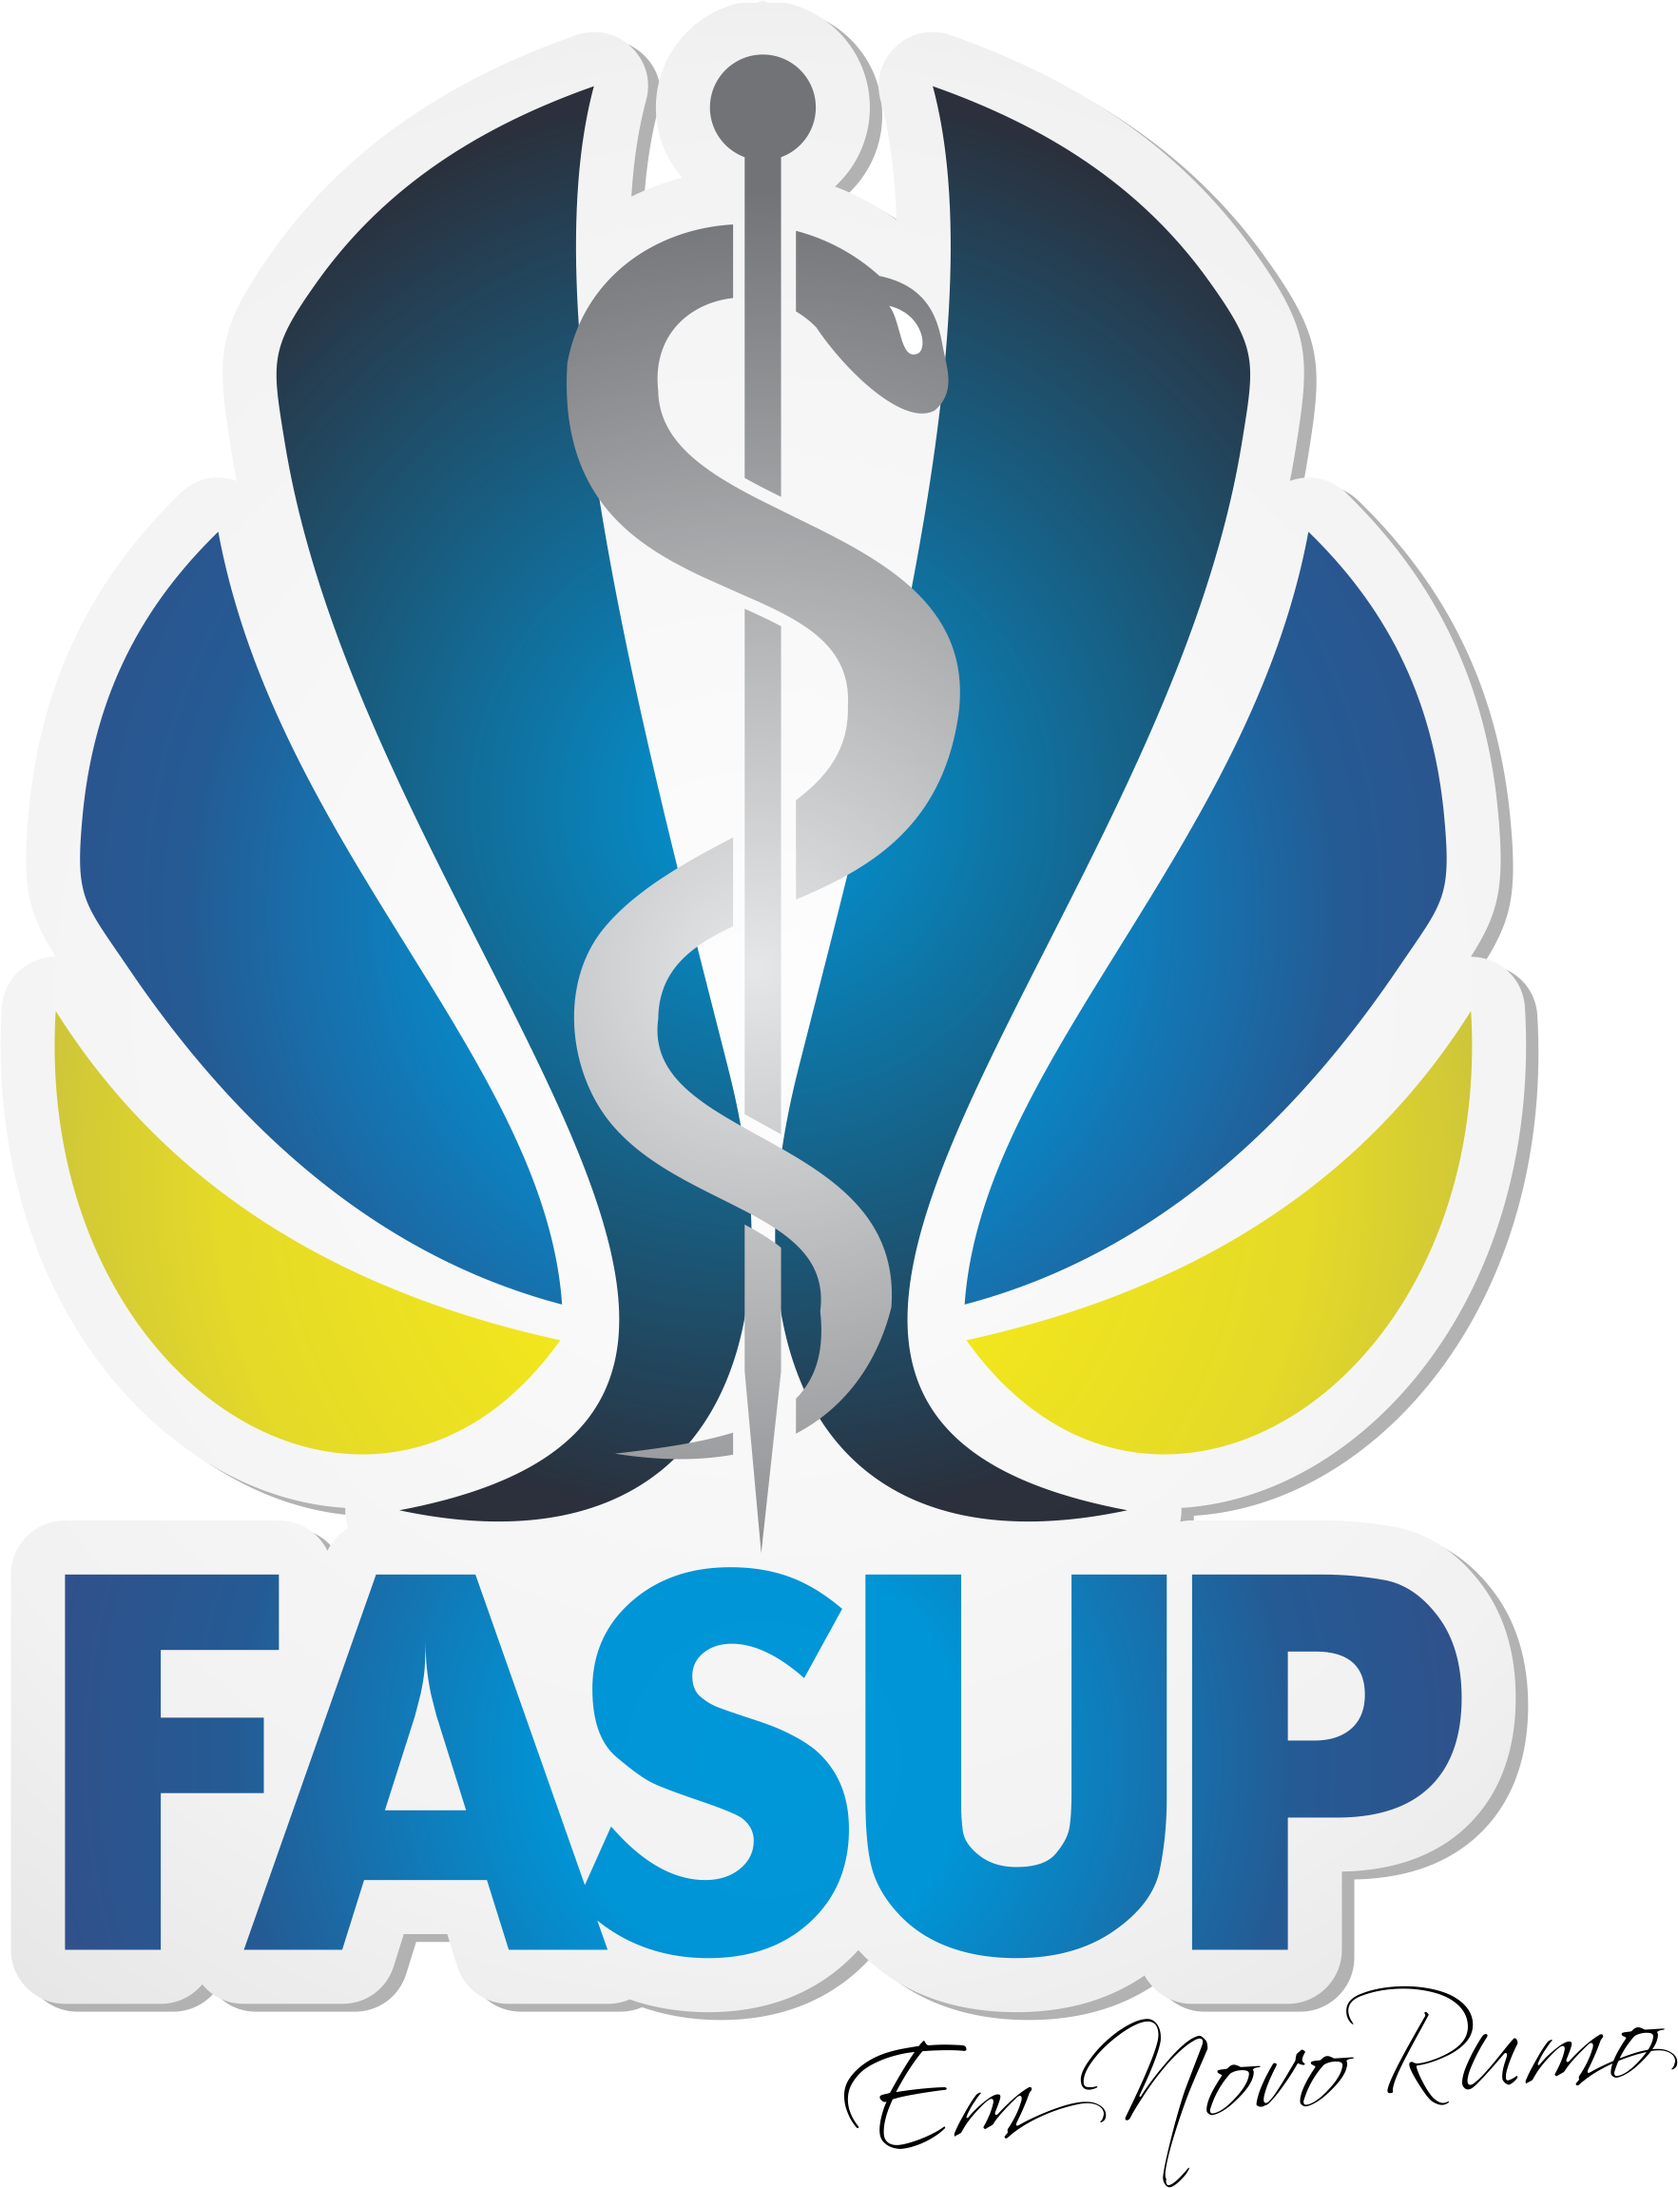
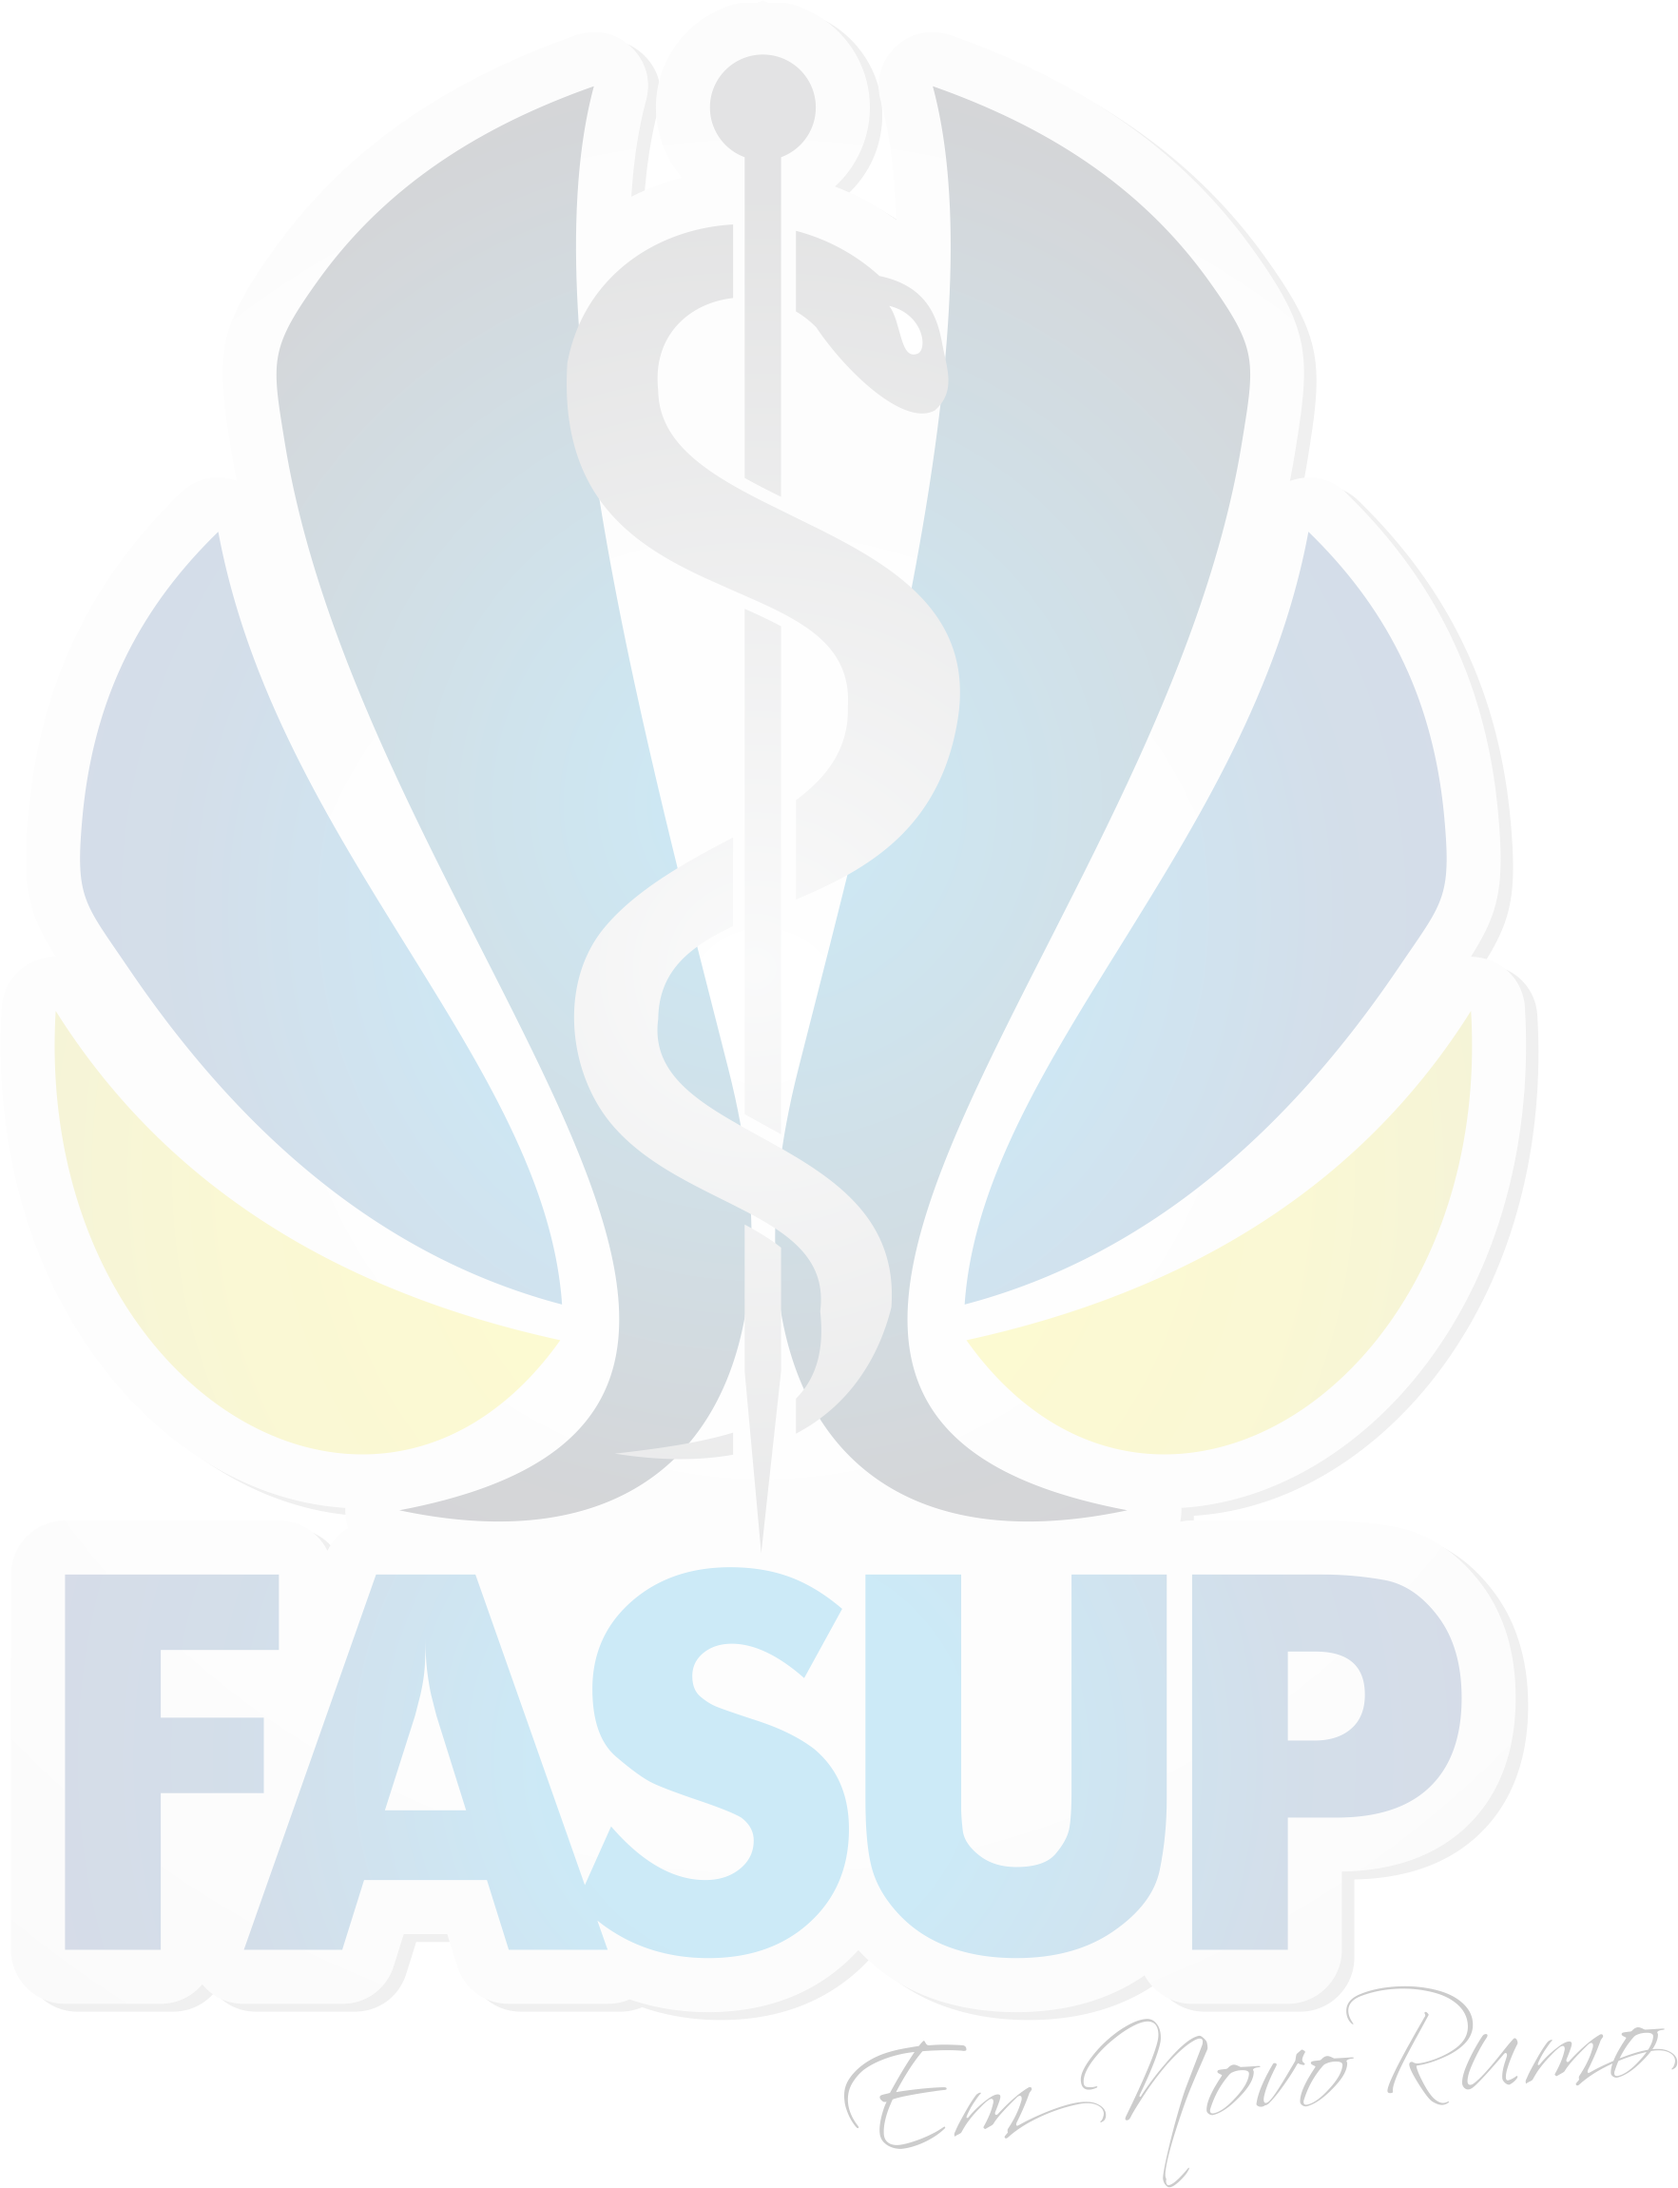
Atualizações

diff --git a/resources/views/reports/declaracaoVinculo.blade.php b/resources/views/reports/declaracaoVinculo.blade.php
@@ -63,15 +63,17 @@
         #background {
             width: 100%;
             height: 100%;
+            background-image: url("{{ asset('/img/marca_dagua_fasupe.png') }}");
+            background-repeat: no-repeat;
+            background-attachment: fixed;
+            background-position: top;
             background-size: 500px 700px;
             position: absolute;
         }
-
         @media print
         {
             body {font-family:georgia, times, serif;}
         }
-        
         #main {
             margin: 20px;
             font-weight: 500;
@@ -97,7 +99,6 @@
 
 <body>
     <div id="background">
-
     </div>
 
     <div id="container">
